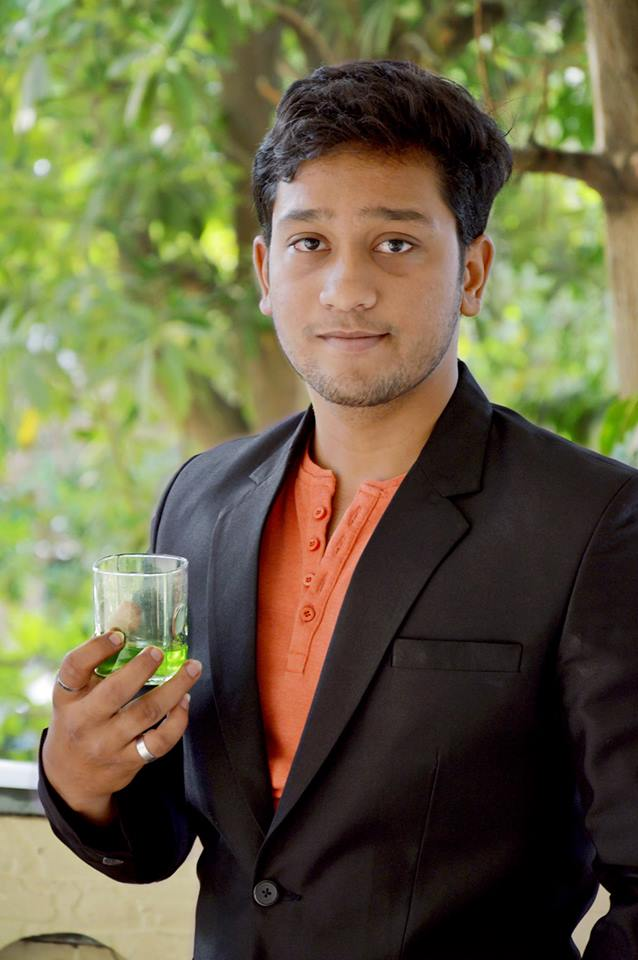
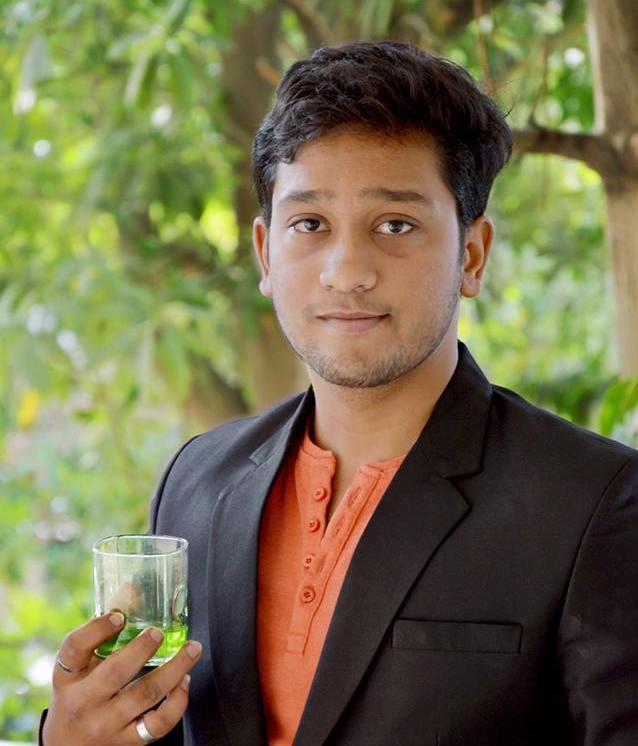
space corrected

diff --git a/index.html b/index.html
@@ -62,18 +62,17 @@
   </div>
 
   <!-- Container (About Section) -->
-  <div class="w3-content w3-container w3-padding-64" id="about">
+  <div class="w3-content w3-container w3-padding-16" id="about">
     <h3 class="w3-center">ABOUT ME</h3>
     <p class="w3-center"><em>I love Coding</em></p>
     <div class="w3-row">
-      <div class="w3-col m6 w3-center w3-padding-large">
-
-        <img src="img/saurabh.jpg" class="w3-round w3-image w3-opacity w3-hover-opacity-off" alt="Saurabh Trivedi"
+      <div class="w3-col m4 w3-center w3-padding-large">
+           <img src="img/saurabh.jpg" class="w3-round w3-image w3-opacity w3-hover-opacity-off" alt="Saurabh Trivedi"
           width="375" height="249">
       </div>
 
       <!-- Hide this text on small devices -->
-      <div class="w3-col m5 w3-hide-small w3-padding-large">
+      <div class="w3-col m8 w3-hide-small w3-padding-large">
 
         <p style="font-size:1.6em"><b><i class="fa fa-user w3-margin-right"></i>Saurabh Trivedi</b></p>
         <p style="text-align:justify">I’m detailed-oriented, responsible and committed Software engineer, with a

diff --git a/CSS/main.css b/CSS/main.css
@@ -49,6 +49,16 @@ html {
   cursor: pointer;
 }
 
+.row {
+  margin-top: -15px;
+  margin-left: -15px;
+  background: #e8e8e8;
+  position: relative;
+  min-height: 1px;
+  padding-bottom: 25px;
+  padding-right: 25px;
+}
+
 .white-font {
   color: white;
 }
@@ -60,10 +70,10 @@ html {
   font-size: 1.5em;
 }
 
-.right-margin{
+.right-margin {
   margin-right: 20px;
 }
-.right-2x-margin{
+.right-2x-margin {
   margin-right: 40px;
 }
 

diff --git a/CSS/style.css b/CSS/style.css
@@ -659,7 +659,7 @@ a {
   }
 }
 .w3-content {
-  max-width: 1188px;
+  max-width: 1288px;
   margin: auto;
 }
 .w3-rest {
@@ -886,6 +886,7 @@ a {
 .w3-container,
 .w3-panel {
   padding: 0.01em 16px;
+  /* border: 2px solid red; */
 }
 .w3-panel {
   margin-top: 16px;
